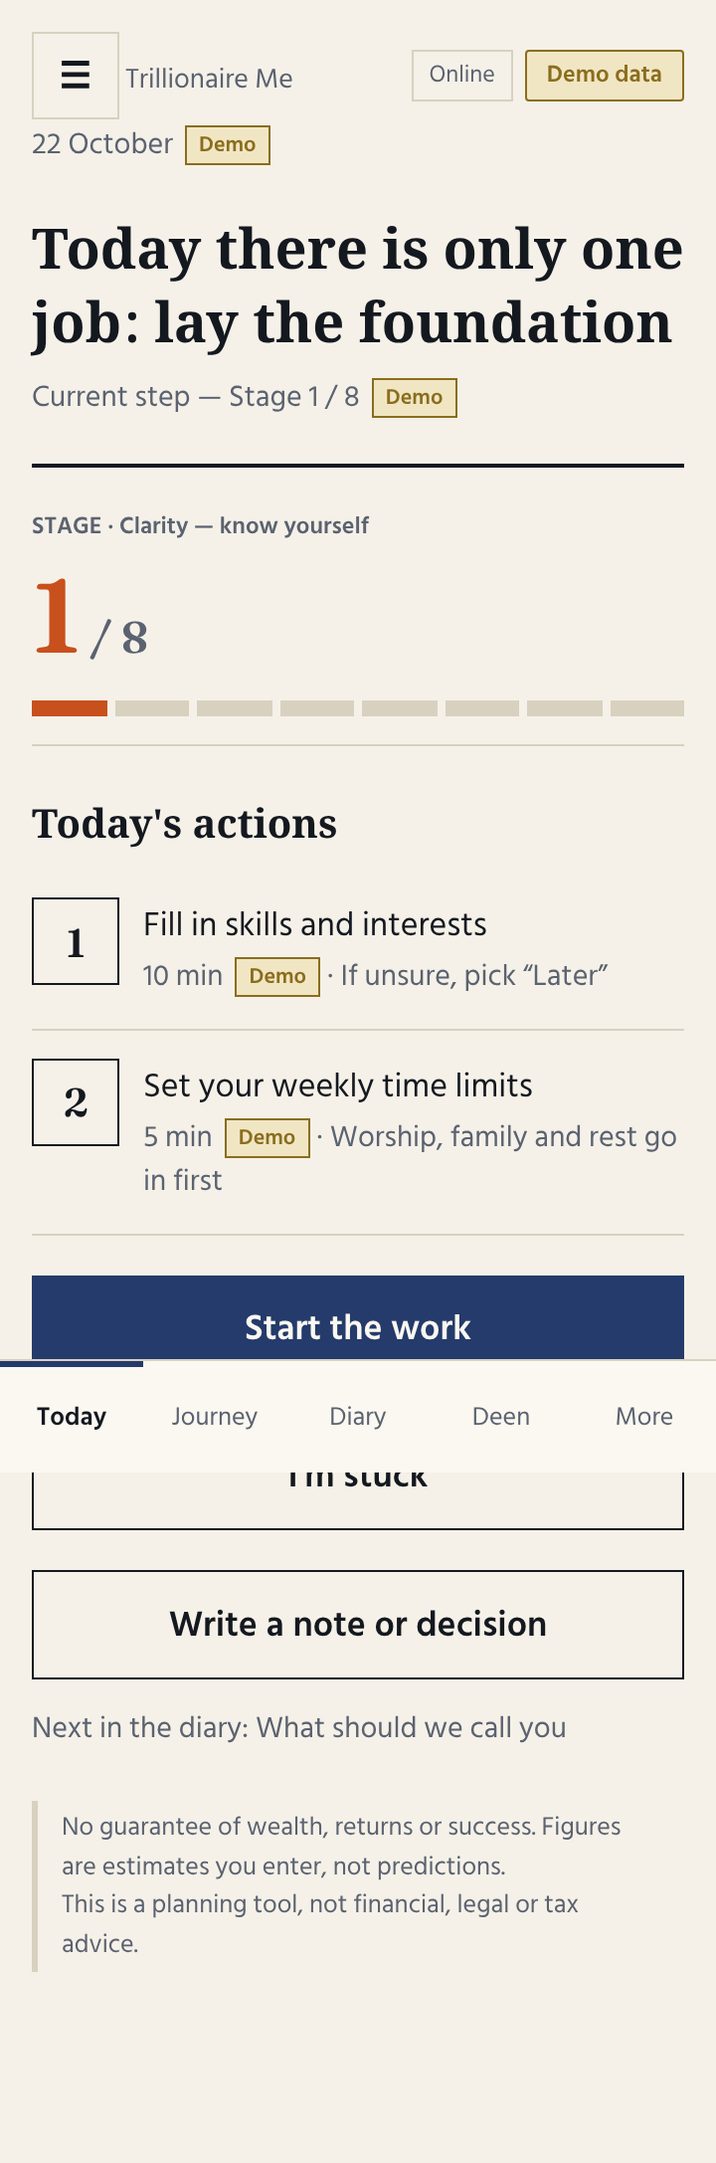
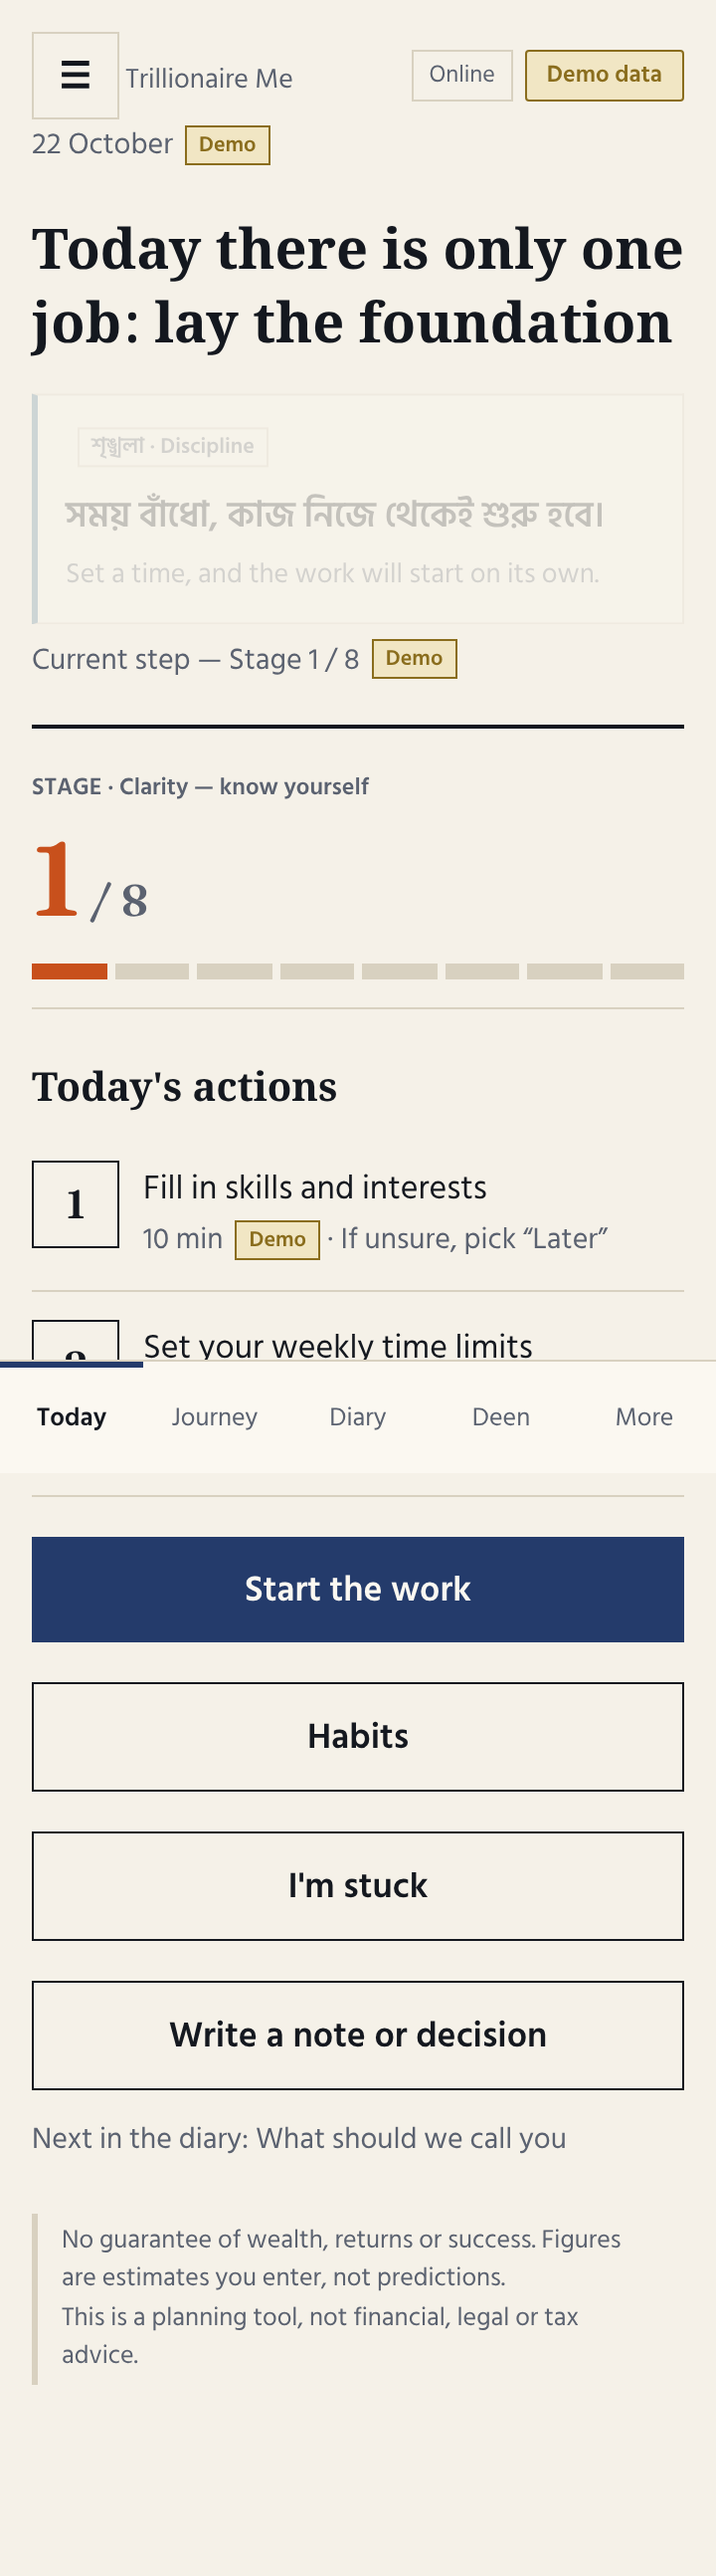
R1: premium daily inspiration card (theme chip, calm motion); refresh status in PLAN
Claude-Session: https://claude.ai/code/session_01ECQLEnTuJEEpTPr8wz4yQ9

diff --git a/src/ui/screens.ts b/src/ui/screens.ts
@@ -1,4 +1,4 @@
-import { todaysInspiration } from "../library/inspiration";
+import { todaysInspiration, THEME_LABEL } from "../library/inspiration";
 import { h } from "./dom";
 import { t, tb } from "../i18n/t";
 import type { Key } from "../i18n/packs";
@@ -576,7 +576,9 @@ export function today(): HTMLElement {
   return h("main", {},
     h("p", { class: "muted" }, valueEl(tb(DEMO_DATE, lang), "DEMO", lang)),
     h("h1", {}, t("home.title", lang)),
-    h("aside", { class: "card inspire", "aria-label": "Inspiration" }, h("p", {}, insp.bn), h("p", { class: "muted" }, insp.en)),
+    h("aside", { class: `card inspire ${insp.theme}`, "aria-label": "Inspiration" },
+      h("span", { class: "chip" }, `${THEME_LABEL[insp.theme].bn} · ${THEME_LABEL[insp.theme].en}`),
+      h("p", { class: "inspire-bn" }, insp.bn), h("p", { class: "muted inspire-en" }, insp.en)),
     h("p", { class: "sub" }, t("home.step", lang), " — ", valueEl(t("stage.progress", lang, { now: num(curStage + 1, lang), total: num(STAGES.length, lang) }), "DEMO", lang)),
     h("section", { class: "stage", "aria-label": t("home.stage", lang) },
       h("small", {}, `${t("home.stage", lang)} · ${tb(stage.name, lang)}`),

diff --git a/src/ui/styles.css b/src/ui/styles.css
@@ -101,3 +101,14 @@ dl{margin:6px 0} .hrow{display:grid;grid-template-columns:96px 1fr;gap:8px;paddi
 .shoot{animation:shoot 1.6s ease-out both}
 @keyframes shoot{from{transform:translate(0,0);opacity:1}to{transform:translate(120px,70px);opacity:0}}
 @media (prefers-reduced-motion:reduce){.star,.star.new,.shoot{animation:none!important}}
+
+/* Daily inspiration card (R1): calm fade-in, theme accent, reduced-motion safe */
+.inspire{position:relative;overflow:hidden;border-inline-start:3px solid var(--rule);animation:inspireIn .6s ease-out both}
+.inspire.motivation{border-inline-start-color:#C9A227}
+.inspire.discipline{border-inline-start-color:#3E6E8E}
+.inspire.patience{border-inline-start-color:#4F7A5A}
+.inspire.care{border-inline-start-color:#9A6B8E}
+.inspire-bn{font:600 18px/1.6 "Hind Siliguri",sans-serif;color:var(--ink);margin:6px 0 2px}
+.inspire-en{font-size:14px;margin:0}
+@keyframes inspireIn{from{opacity:0;transform:translateY(6px)}to{opacity:1;transform:none}}
+@media (prefers-reduced-motion: reduce){.inspire{animation:none}}

diff --git a/tests/inspiration.test.ts b/tests/inspiration.test.ts
@@ -16,3 +16,13 @@ describe("daily inspiration board (batch 7 owner request)", () => {
     expect(text).not.toMatch(/streak|fail|broken|lost|shame|score|rank/);
   });
 });
+
+import { THEME_LABEL } from "../src/library/inspiration";
+describe("inspiration theme labels", () => {
+  it("every theme has a Bangla and English label", () => {
+    for (const k of Object.keys(THEME_LABEL) as (keyof typeof THEME_LABEL)[]) {
+      expect(THEME_LABEL[k].bn.length).toBeGreaterThan(0);
+      expect(THEME_LABEL[k].en.length).toBeGreaterThan(0);
+    }
+  });
+});

diff --git a/src/library/inspiration.ts b/src/library/inspiration.ts
@@ -30,3 +30,10 @@ export function todaysInspiration(date: Date, list: readonly Inspiration[] = INS
   const i = ((dayIndex(date) % n) + n) % n;
   return list[i]!;
 }
+
+export const THEME_LABEL: Record<Inspiration["theme"], { bn: string; en: string }> = {
+  motivation: { bn: "অনুপ্রেরণা", en: "Motivation" },
+  discipline: { bn: "শৃঙ্খলা", en: "Discipline" },
+  patience: { bn: "ধৈর্য", en: "Patience" },
+  care: { bn: "যত্ন", en: "Care" },
+};

diff --git a/docs/PLAN.md b/docs/PLAN.md
@@ -1,4 +1,6 @@
-# PLAN (living) — updated 23 Oct 2026
+# PLAN (living) — updated 24 Oct 2026
+
+> Master sequence now lives in `docs/ROADMAP.md`. This file keeps owner decisions and gate status.
 
 ## Owner decisions added this session
 - **Hosting:** static site on a free host (Cloudflare Pages recommended, private repo). Works as installable PWA; offline after first visit; internet only for search/AI/cloud features. Not published yet — owner connects the host account.
@@ -23,7 +25,12 @@
 ## Life Success brief — selective (docs/design/life-system-integration.md)
 Only what fits the running app: "I'm stuck" flow → habits without streaks → weekly review/missed-day reasons → goal tree view/skill gap. The big library/tags/20-category build is parked.
 
-## Next actions (in order)
+## Status 24 Oct 2026
+- Tests: 163 unit passing, TypeScript clean, build OK, e2e 36 PASS / 0 FAIL, 60 screenshots no horizontal overflow.
+- R1 (ROADMAP §4): daily inspiration card with theme chip, bilingual, calm fade-in (reduced-motion safe) — done. Next-step highlight (B6) still open.
+- Register rows NOT changed in this pass (update_register.py needs input files; evidence JSON only).
+
+## Next actions (in order, superseded by ROADMAP §4 for build order)
 1. App storage → IndexedDB (write-through, migrate localStorage) 
 2. PNG icons + manifest for install
 3. Notification privacy settings (lock-screen hiding)
